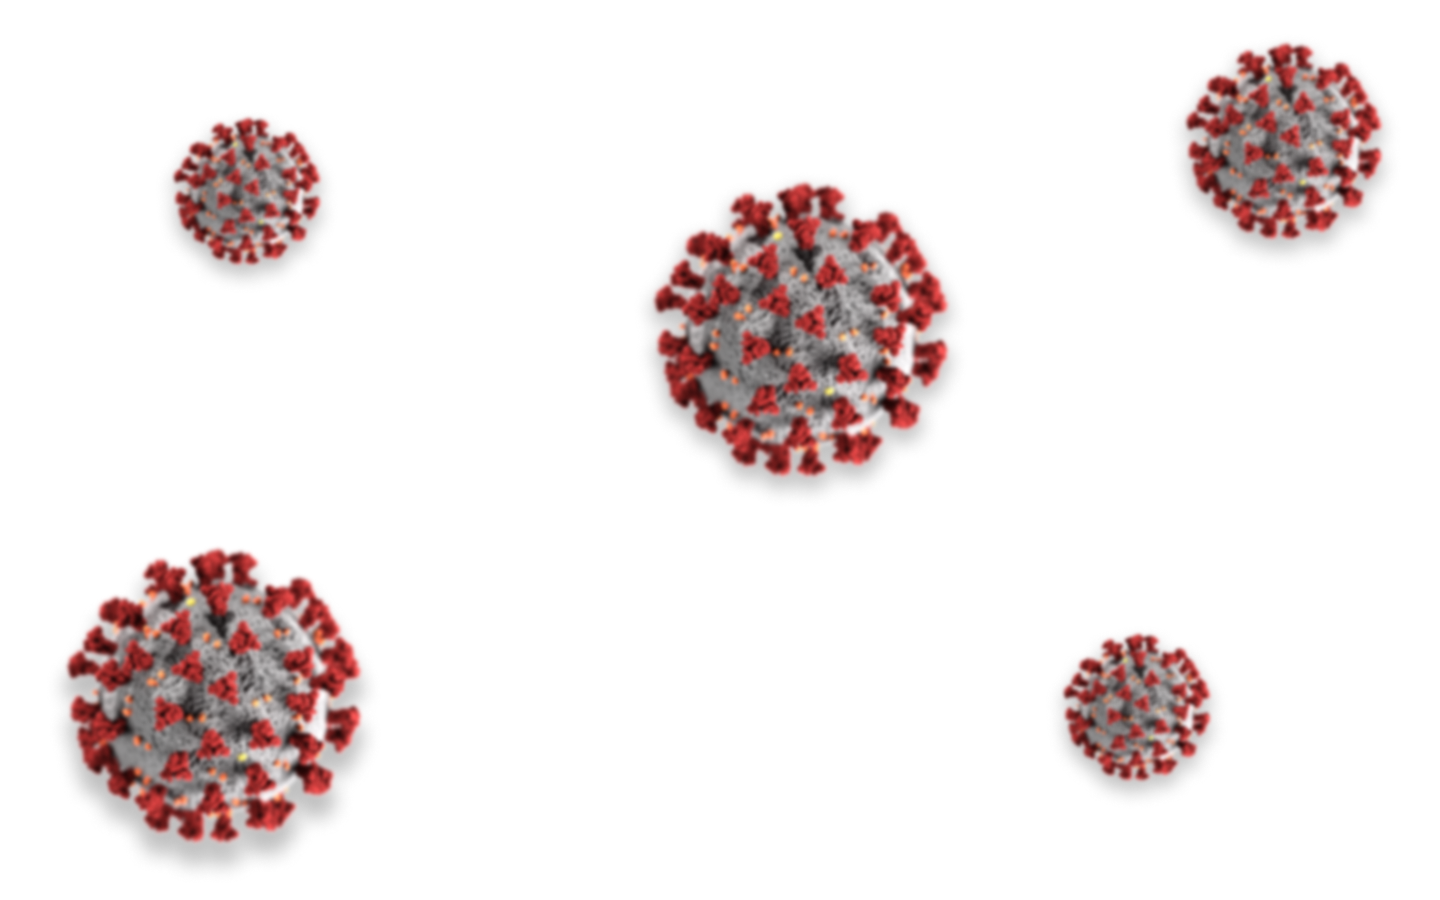
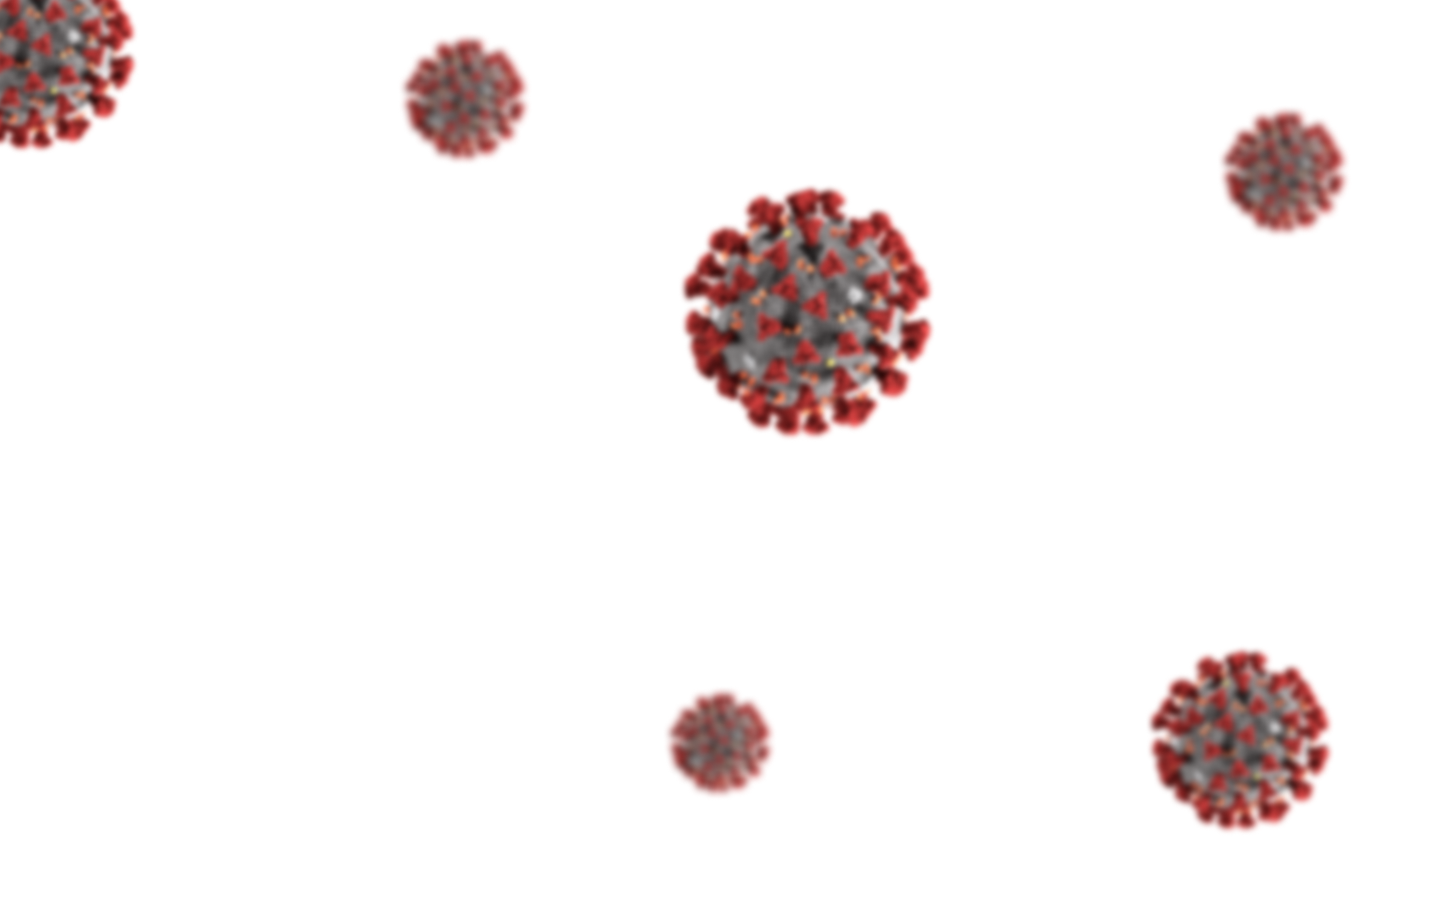
Finally happy with the parallax of first section!

diff --git a/index.html b/index.html
@@ -2,40 +2,43 @@
 <html lang="en">
 
 <head>
-  <meta charset="UTF-8">
-  <meta name="viewport" content="width=device-width, initial-scale=1.0">
-  <title>Document</title>
-  <link rel="stylesheet" href="assets/css/global.css">
-  <link rel="stylesheet" href="assets/css/background.css">
-  <link rel="stylesheet" href="assets/css/normarlize.css">
-  <link rel="icon" type="image/svg+xml" href="assets/img/favicon.svg" />
-  <meta name="og:description" content="The useless website 2020 needs!" />
-  <meta name="og:image" content="http://tny.im/goh" />
-  <meta name="og:url" content="URL" />
+    <meta charset="UTF-8">
+    <meta name="viewport" content="width=device-width, initial-scale=1.0">
+    <title>Document</title>
+    <link rel="stylesheet" href="assets/css/global.css">
+    <link rel="stylesheet" href="assets/css/background.css">
+    <link rel="stylesheet" href="assets/css/normarlize.css">
+    <link rel="icon" type="image/svg+xml" href="assets/img/favicon.svg" />
+    <meta name="og:description" content="The useless website 2020 needs!" />
+    <meta name="og:image" content="http://tny.im/goh" />
+    <meta name="og:url" content="URL" />
 </head>
 
 
 <body>
-  <main>
-    <section class="corona">
-      <h1 class="year">2020</h1>
-      <p class="intro-text">It's been a year!</p>
-      <picture>
-        <source media="(min-width: 1500px)" srcset="assets/img/corona-xl.png" />
-        <source media="(min-width: 900px)" srcset="assets/img/corona-lg.png" />
-        <source media="(min-width: 500px)" srcset="assets/img/corona-mid.png" />
-        <img src="assets/img/corona.png" alt="Background first layer" />
-      </picture>
+    <main>
+        <section class="corona">
+            <h1 class="year">2020</h1>
+            <p class="intro-text">It's been a year!</p>
 
-      <picture>
-        <source media="(min-width: 1500px)" srcset="assets/img/overlay-corona-xl.png" />
-        <source media="(min-width: 900px)" srcset="assets/img/overlay-corona-lg.png" />
-        <source media="(min-width: 500px)" srcset="assets/img/overlay-corona-mid.png" />
-        <img src="assets/img/overlay-corona.png" alt="Background first layer" />
-      </picture>
-    </section>
-  </main>
+            <picture>
+                <source media="(min-width: 1300px)" srcset="assets/img/corona-xl.png" />
+                <source media="(min-width: 600px)" srcset="assets/img/corona-lg.png" />
+                <img class="corona-l1" src="assets/img/corona-mid.png" alt="Back" />
+            </picture>
 
+            <picture>
+                <source media="(min-width: 1300px)" srcset="assets/img/overlay-corona-xl.png" />
+                <source media="(min-width: 600px)" srcset="assets/img/overlay-corona-lg.png" />
+                <img class="corona-l2" src="assets/img/overlay-corona-mid.png" alt="Back" />
+            </picture>
+
+        </section>
+
+        <section></section>
+    </main>
+
+    <script src="assets/js/script.js"></script>
 </body>
 
 </html>

diff --git a/assets/css/background.css b/assets/css/background.css
@@ -1,12 +1,13 @@
-/* Here are all the styles for the images that act as layered backgrounds and colors of each section */
+/* Here you can find all the background-related styles for each section */
 
+/******************************
+* SECTION 1
+******************************/
 .corona {
-  background: #56ccf2;
-  background: -webkit-linear-gradient(to top, #2f80ed, #56ccf2);
-  background: linear-gradient(to top, #2f80ed, #56ccf2);
+  background: #72c6ef;
+  background: -webkit-linear-gradient(to top, #2f80ed, #72c6ef);
+  background: linear-gradient(to top, #2f80ed, #72c6ef);
   position: relative;
-  width: 100vw;
-  height: 100vh;
   overflow: hidden;
   display: flex;
   flex-direction: column;
@@ -21,5 +22,4 @@
   width: 100%;
   height: 100%;
   object-fit: cover;
-  pointer-events: none;
 }

diff --git a/assets/js/script.js b/assets/js/script.js
@@ -1,0 +1,9 @@
+const corona = document.querySelector('.corona-l1');
+const coronaOverlay = document.querySelector('.corona-l2');
+
+window.addEventListener('scroll', () => {
+  let value = window.scrollY;
+  corona.style.top = value + 1 + 'px';
+  coronaOverlay.style.left = value + 1 + 'px';
+
+})

diff --git a/assets/css/global.css b/assets/css/global.css
@@ -1,0 +1,17 @@
+* {
+  margin: 0;
+  padding: 0;
+  box-sizing: border-box;
+}
+
+html {
+  scroll-snap-type: y proximity;
+  -webkit-overflow-scrolling: touch;
+}
+
+section {
+  height: 100vh;
+  width: 100vw;
+  overflow: hidden;
+  scroll-snap-align: start;
+}
